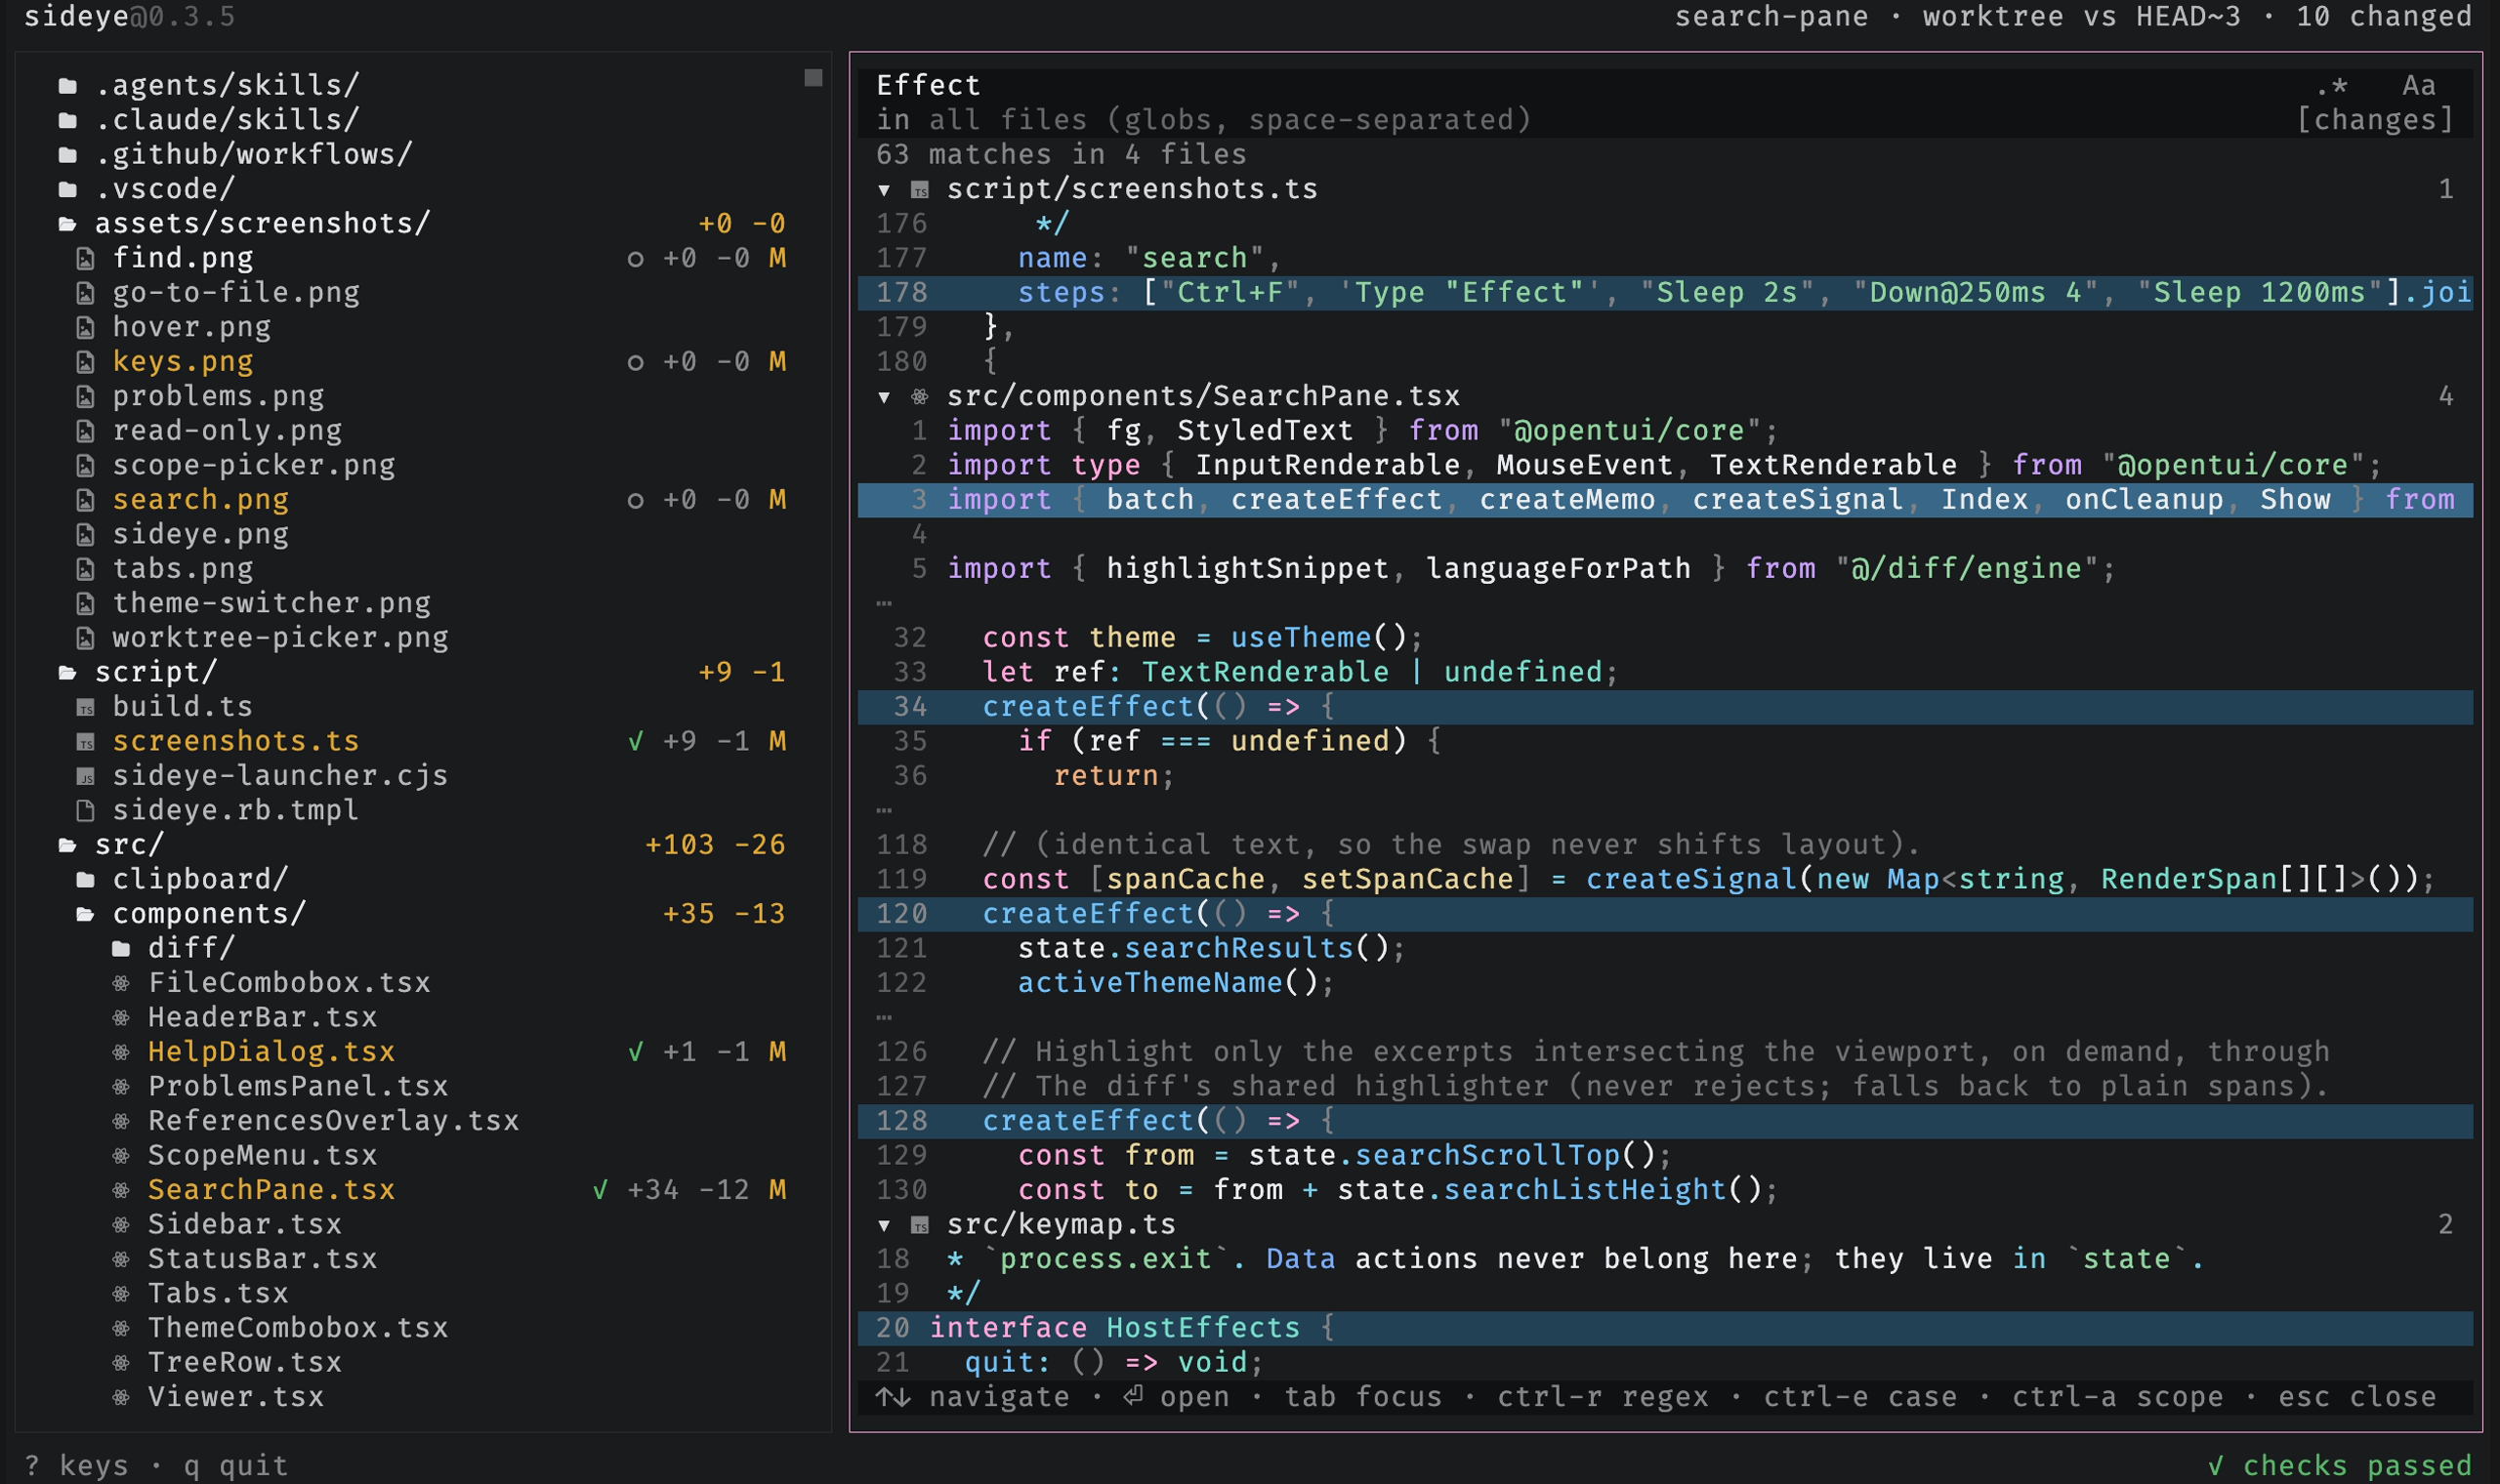
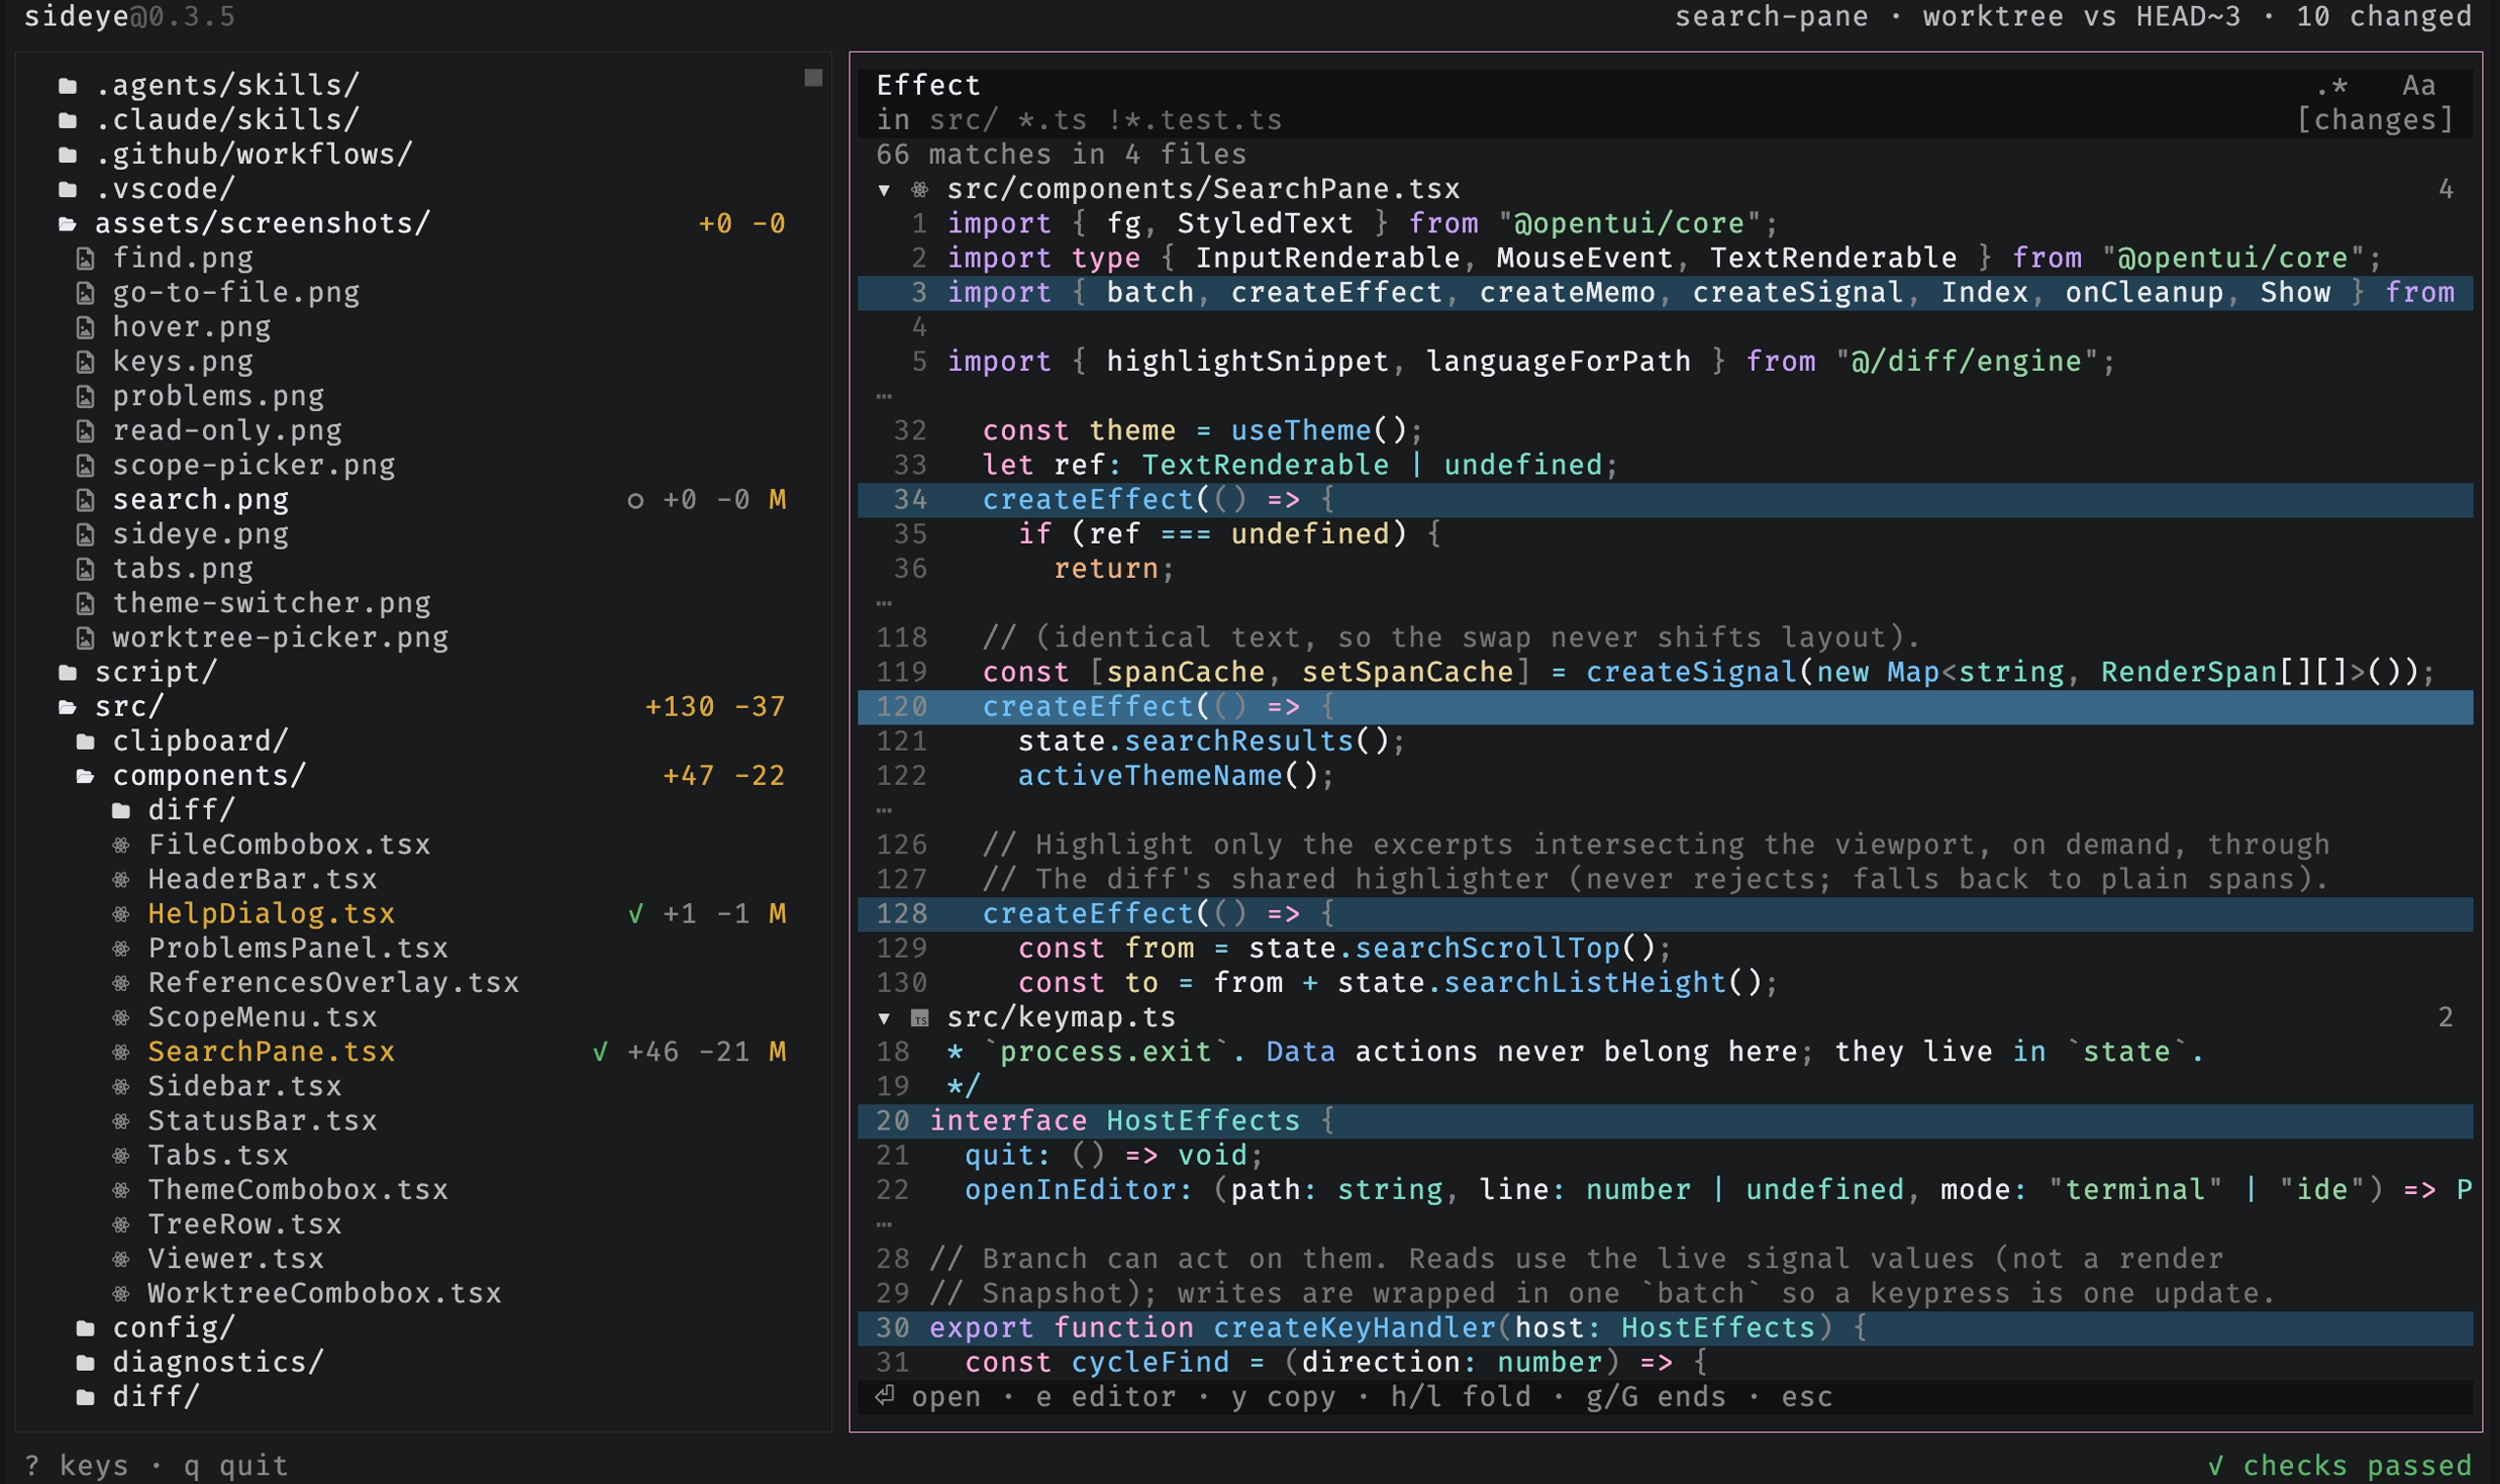
feat(search): ✨ include/exclude path filtering and tighter pane copy
The filter field now maps ! tokens to git :(exclude) pathspecs (includes
union, excludes subtract, exclude-only matches everything else, raw
pathspec magic passes verbatim). Copy pass per TASTE: the query
placeholder dedupes to search… (the scope cell owns the scope), the
filter placeholder teaches by example (src/ *.ts !*.test.ts), the error
line says what to do next, the empty-state hint is scope-aware, and the
footer is contextual per sub-focus so the result keys (e/o, y, h/l, g/G)
are finally surfaced and both variants fit narrow panes.

diff --git a/test/search.test.ts b/test/search.test.ts
@@ -4,7 +4,7 @@ import { join } from "node:path";
 
 import { Effect, Layer } from "effect";
 
-import { parseSearchOutput, searchArgs } from "@/git/search";
+import { filterPathspecs, parseSearchOutput, searchArgs } from "@/git/search";
 import { Git, GitLive } from "@/git/service";
 import { ProcessLive } from "@/process";
 
@@ -50,6 +50,38 @@ describe("searchArgs", () => {
   test("changed-scope search limits to the given paths", () => {
     const args = searchArgs("needle", ["src/a.ts", "src/b.ts"], literal);
     expect(args.slice(args.indexOf("--"))).toEqual(["--", "src/a.ts", "src/b.ts"]);
+  });
+});
+
+describe("filterPathspecs", () => {
+  test("globs pass through as pathspecs", () => {
+    expect(filterPathspecs("src/ *.ts")).toEqual(["src/", "*.ts"]);
+  });
+
+  test("a ! prefix maps to a git exclude pathspec", () => {
+    expect(filterPathspecs("!*.test.ts")).toEqual([":(exclude)*.test.ts"]);
+  });
+
+  test("includes and excludes mix in one field", () => {
+    expect(filterPathspecs("src/ !src/vendor *.ts")).toEqual([
+      "src/",
+      ":(exclude)src/vendor",
+      "*.ts",
+    ]);
+  });
+
+  test("a bare ! is dropped", () => {
+    expect(filterPathspecs("! src/")).toEqual(["src/"]);
+  });
+
+  test("raw pathspec magic passes verbatim", () => {
+    expect(filterPathspecs(":(exclude)dist")).toEqual([":(exclude)dist"]);
+  });
+
+  test("blank input means no filter", () => {
+    expect(filterPathspecs("")).toBeUndefined();
+    expect(filterPathspecs("  ")).toBeUndefined();
+    expect(filterPathspecs("!")).toBeUndefined();
   });
 });
 
@@ -143,6 +175,22 @@ test("Git.search limits to the changed pathspec and is smart-case", async () => 
 
     const cased = await runSearch(repo, "NEEDLE", undefined);
     expect(cased).toEqual([]);
+  } finally {
+    rmSync(repo, { force: true, recursive: true });
+  }
+});
+
+test("Git.search subtracts exclude pathspecs, including an exclude-only list", async () => {
+  const repo = createFixtureRepo("git-search-exclude-", {
+    "src/a.test.ts": "const needle = 1\n",
+    "src/a.ts": "const needle = 2\n",
+  });
+  try {
+    const mixed = await runSearch(repo, "needle", ["src/", ":(exclude)*.test.ts"]);
+    expect(mixed.map((match) => match.path)).toEqual(["src/a.ts"]);
+
+    const excludeOnly = await runSearch(repo, "needle", [":(exclude)*.test.ts"]);
+    expect(excludeOnly.map((match) => match.path)).toEqual(["src/a.ts"]);
   } finally {
     rmSync(repo, { force: true, recursive: true });
   }

diff --git a/src/components/SearchPane.tsx b/src/components/SearchPane.tsx
@@ -74,7 +74,7 @@ export function SearchPane() {
         return state.searchResults().length === 0 ? "searching…" : `${summary()} · searching…`;
       }
       case "error": {
-        return `${levelGlyph("error")} invalid pattern or search failed`;
+        return `${levelGlyph("error")} search failed · check the pattern`;
       }
       default: {
         return state.searchResults().length === 0 ? "no matches" : summary();
@@ -268,7 +268,7 @@ export function SearchPane() {
             }}
             focused={focusIn("query")}
             width="100%"
-            placeholder={`search in ${scopeLabel()}…`}
+            placeholder="search…"
             {...inputColors}
             onInput={onQueryInput}
             onSubmit={submit}
@@ -299,7 +299,7 @@ export function SearchPane() {
             }}
             focused={focusIn("glob")}
             width="100%"
-            placeholder="all files (globs, space-separated)"
+            placeholder="src/ *.ts !*.test.ts"
             {...inputColors}
             onInput={onGlobInput}
             onSubmit={submit}
@@ -339,11 +339,9 @@ export function SearchPane() {
                           : "type to search"}
                     </text>
                     <text fg={theme.colors.text.faint}>
-                      {state.searchStatus() === "ready" && state.searchScope() === "changed"
-                        ? "searched changed files · ctrl-a searches the repo"
-                        : state.searchStatus() === "ready"
-                          ? "searched the whole repo"
-                          : "matches appear as you type"}
+                      {state.searchScope() === "changed"
+                        ? "in changed files · ctrl-a for the whole repo"
+                        : "across the whole repo"}
                     </text>
                   </>
                 }
@@ -442,10 +440,15 @@ export function SearchPane() {
           </Index>
         </Show>
       </box>
+      {/* Contextual per sub-focus, naming only the keys that focus honors: the
+          inputs surface the query toggles, the results surface the result
+          actions. Both fit narrower panes than one exhaustive line would. */}
       <box height={1} paddingLeft={1} backgroundColor={theme.colors.surface.panel}>
         <text fg={theme.colors.text.muted}>
           {truncate(
-            "↑↓ navigate · ⏎ open · tab focus · ctrl-r regex · ctrl-e case · ctrl-a scope · esc close",
+            state.searchFocus() === "results"
+              ? "⏎ open · e editor · y copy · h/l fold · g/G ends · esc"
+              : "⏎ open · ↓ results · ctrl-r regex · ctrl-e case · ctrl-a scope · esc",
             Math.max(8, innerWidth() - 2),
           )}
         </text>

diff --git a/test/search.render.test.tsx b/test/search.render.test.tsx
@@ -30,7 +30,7 @@ describe("project content search", () => {
       await settleUntil("app chrome", (frame) => frame.includes("sideye"), 5);
 
       mockInput.pressKey("f", { ctrl: true });
-      await settleUntil("search pane", (frame) => frame.includes("search in changes…"));
+      await settleUntil("search pane", (frame) => frame.includes("search…"));
 
       // Changed scope sees only the modified a.ts, not the unchanged lib.ts.
       await mockInput.typeText("needle");
@@ -57,7 +57,7 @@ describe("project content search", () => {
       mockInput.pressEnter();
       const jumped = await settleUntil(
         "jumped to lib.ts line 3",
-        (frame) => frame.includes("ln 3:14") && !frame.includes("tab focus"),
+        (frame) => frame.includes("ln 3:14") && !frame.includes("g/G ends"),
       );
       expect(jumped).toContain("ln 3:14");
 
@@ -69,7 +69,8 @@ describe("project content search", () => {
       expect(restored).toContain("needle");
       expect(restored).toContain("src/lib.ts");
 
-      // The glob field narrows by pathspec: only lib.ts matches src/l*.
+      // The glob field narrows by pathspec: only lib.ts matches src/l*, and a
+      // ! token excludes it again (excludes subtract from includes).
       mockInput.pressTab();
       await mockInput.typeText("src/l*");
       const globbed = await settleUntil(
@@ -79,6 +80,9 @@ describe("project content search", () => {
         300,
       );
       expect(globbed).toContain("src/lib.ts");
+
+      await mockInput.typeText(" !src/lib*");
+      await settleUntil("exclude wins", (frame) => frame.includes("no matches"), 1, 300);
     } finally {
       renderer.destroy();
       rmSync(repoRoot, { force: true, recursive: true });
@@ -113,7 +117,7 @@ describe("project content search", () => {
       // Seeded on aaa.ts; the only needle match is line 50 of the changed zzz.ts.
       await settleUntil("app chrome", (frame) => frame.includes("sideye"), 5);
       mockInput.pressKey("f", { ctrl: true });
-      await settleUntil("search pane", (frame) => frame.includes("search in changes…"));
+      await settleUntil("search pane", (frame) => frame.includes("search…"));
       await mockInput.typeText("needle");
       await settleUntil("result", (frame) => frame.includes("1 match in 1 file"));
 
@@ -146,7 +150,7 @@ describe("project content search", () => {
     try {
       await settleUntil("app chrome", (frame) => frame.includes("sideye"), 5);
       mockInput.pressKey("f", { ctrl: true });
-      await settleUntil("search pane", (frame) => frame.includes("search in changes…"));
+      await settleUntil("search pane", (frame) => frame.includes("search…"));
       await mockInput.typeText("needle");
       const results = await settleUntil("results", (frame) => frame.includes("1 match in 1 file"));
       expect(results).toContain("needle = 2");
@@ -156,7 +160,7 @@ describe("project content search", () => {
       mockInput.pressKey("r", { ctrl: true });
       await mockInput.typeText("(");
       const errored = await settleUntil("error keeps results", (frame) =>
-        frame.includes("invalid pattern or search failed"),
+        frame.includes("search failed · check the pattern"),
       );
       expect(errored).toContain("src/a.ts");
 

diff --git a/src/git/search.ts b/src/git/search.ts
@@ -10,6 +10,19 @@ export interface SearchOptions {
   caseSensitive: boolean;
 }
 
+// The pane's filter field as git pathspecs: whitespace-separated globs include,
+// A `!` prefix excludes (ripgrep's -g convention, mapped to git's `:(exclude)`),
+// And anything else passes verbatim so raw pathspec magic still works. Includes
+// Union and excludes subtract; a list of only excludes matches everything else.
+export function filterPathspecs(field: string): string[] | undefined {
+  const tokens = field
+    .trim()
+    .split(/\s+/)
+    .filter((token) => token !== "" && token !== "!")
+    .map((token) => (token.startsWith("!") ? `:(exclude)${token.slice(1)}` : token));
+  return tokens.length === 0 ? undefined : tokens;
+}
+
 // `git grep` over working-tree content. `-F` keeps the query literal unless the
 // Regex toggle is on (`-E`, the extended dialect IDEs speak); smart-case mirrors
 // The in-buffer find unless the case toggle forces sensitivity. `--untracked`

diff --git a/src/state.ts b/src/state.ts
@@ -45,6 +45,7 @@ import {
 import type { ActivityEventKind, ActivityLog } from "./git/activity";
 import { changedPathsDiffer, EMPTY_TREE_SHA, mergeChanged } from "./git/model";
 import type { ChangedFile, GitModel, Worktree } from "./git/model";
+import { filterPathspecs } from "./git/search";
 import type { SearchMatch } from "./git/search";
 import { Git } from "./git/service";
 import {
@@ -676,8 +677,7 @@ function createState() {
     const query = searchQuery();
     const root = repoRoot();
     const options = { caseSensitive: searchCaseSensitive(), regex: searchRegex() };
-    const glob = searchGlob().trim();
-    const globTokens = glob === "" ? undefined : glob.split(/\s+/);
+    const globTokens = filterPathspecs(searchGlob());
     // Track the git model itself (not the set-equal `changedPaths` memo, and in
     // Every scope): a content-only edit to an already-changed file keeps the
     // Path-set identical but moves matches and line numbers, so the grep must

diff --git a/README.md b/README.md
@@ -155,8 +155,9 @@ counter tracks your place, and `esc` clears the search.
 
 Press `ctrl-f` to open the project search pane in the main viewer area. Results
 group by file with syntax-highlighted context around each match; `ctrl-r`
-toggles regex, `ctrl-e` toggles case sensitivity, a glob field narrows by path,
-and `ctrl-a` toggles between the changed files and the whole tree. Jumping to a
+toggles regex, `ctrl-e` toggles case sensitivity, a filter field narrows by
+glob (`!` excludes, e.g. `src/ !*.test.ts`), and `ctrl-a` toggles between the
+changed files and the whole tree. Jumping to a
 match keeps your query and results, so `ctrl-f` brings them right back.
 
 ![project content search listing matches for a term across several files in the repo](assets/screenshots/search.png)

diff --git a/SPEC.md b/SPEC.md
@@ -65,7 +65,7 @@ The viewer is a set of tabs, each an ordered history of Locations (a Location is
 
 - `ctrl-f` opens the project search pane, the first **main-area view mode**: a `mainView` union signal (`"file" | "search"`) swaps the Viewer's interior, so exactly one view is ever active and future panes extend the union rather than adding booleans. The pane is persistent: closing it (`esc`, or any navigation to a file, including a result jump) keeps the query, results, selection, and collapsed groups, so `ctrl-f` after a jump restores the result set instead of clearing it. A worktree switch clears the snapshot (stale paths) but keeps the query.
 - The engine is `git grep` (`-I` to skip binary, `--untracked` so it covers the tree's universe, `--column` for the match column). It searches working-tree file content, not diffs. Literal `-F` with smart-case by default; a regex toggle (`ctrl-r`) swaps `-F` for extended regex `-E`, and a case toggle (`ctrl-e`) forces case sensitivity over smart-case. `--column` reports a byte offset; it is converted to UTF-16 units so a jump lands the caret on the exact column even on non-ASCII lines.
-- Scope defaults to the changed set (pathspec-limited to `git status`'s changed files, so it follows the active all/staged/unstaged scope); `ctrl-a` toggles between the changed set and the whole repo. A glob field narrows by pathspecs (space-separated, git wildmatch); under the changed scope the glob drives the grep and the changed set filters the results after, since pathspecs union rather than intersect.
+- Scope defaults to the changed set (pathspec-limited to `git status`'s changed files, so it follows the active all/staged/unstaged scope); `ctrl-a` toggles between the changed set and the whole repo. A filter field narrows by pathspecs (space-separated, git wildmatch): plain tokens include, a `!` prefix excludes (mapped to git's `:(exclude)`, so includes union and excludes subtract; an exclude-only filter matches everything else, and raw pathspec magic passes verbatim). Under the changed scope the filter drives the grep and the changed set filters the results after, since include pathspecs union rather than intersect.
 - Results group by file with per-file headers (match count, collapsible with `enter`/`h`/`l`), two lines of context around each match (overlapping context ranges merge into one excerpt, `⋯` separates non-contiguous excerpts), and Shiki syntax highlighting per file language through the diff's shared highlighter (highlighted on demand for the visible window; rows render plain and upgrade in place). Context comes from bounded file reads, not `git grep -C` (whose `-z` output makes match and context records indistinguishable); an unreadable or oversized file degrades to match-only rows. `enter` routes through the same `jumpTarget` path as problems navigation, landing on the line and column and escalating to full-file view when the line is outside the diff.
 - Keyboard while the pane is focused: `tab` cycles query → glob → results, `↓` enters the results, `j`/`k` walk navigable rows (matches and headers; context and gaps are skipped), `ctrl-d`/`ctrl-u` half-page by _viewport_ rows (snapping to the nearest navigable row). Only the query/glob inputs swallow printable keys; in results focus unhandled keys fall through, so the global bindings (`q`, `?`, `ctrl-p`, `p`, the `ctrl-b` sidebar toggle...) keep working, matching the problems pane. `esc` closes panels innermost-first: the problems panel, then the search view, then the app. File-view keys (`v`, `f`, `z`, `ctrl-t`/`ctrl-w` tab pin/close, `F12`/`Shift+F12`/`K` intel, `y`/`Y` viewer copy) are inert while the search view shows, since they would act on a viewer that isn't on screen; in the results, `e`/`o` open the selected result in the editor, `y` copies its reference (`path:line:col` on a match), and `g`/`G` jump to the first/last result. Any navigation to a file (a result jump, the palette, problems, recency, history) reveals the file view, including a jump that lands on the already-selected file. The chrome rows (query, filter, summary, footer) are fixed-height in every state, so idle/searching/no-matches/error swaps never shift layout.
 - The query is debounced and runs through the interruptible `Process` service, holding the previous snapshot until the new one resolves; a failed grep (a half-typed regex) keeps the prior results under an error notice. While the pane is open the search re-runs on every git-model refresh (and on reopen), so results, context lines, and jump targets track the working tree as an agent edits it. Results are capped to keep the pane bounded; hitting the cap is surfaced as a trailing `+` on the count.